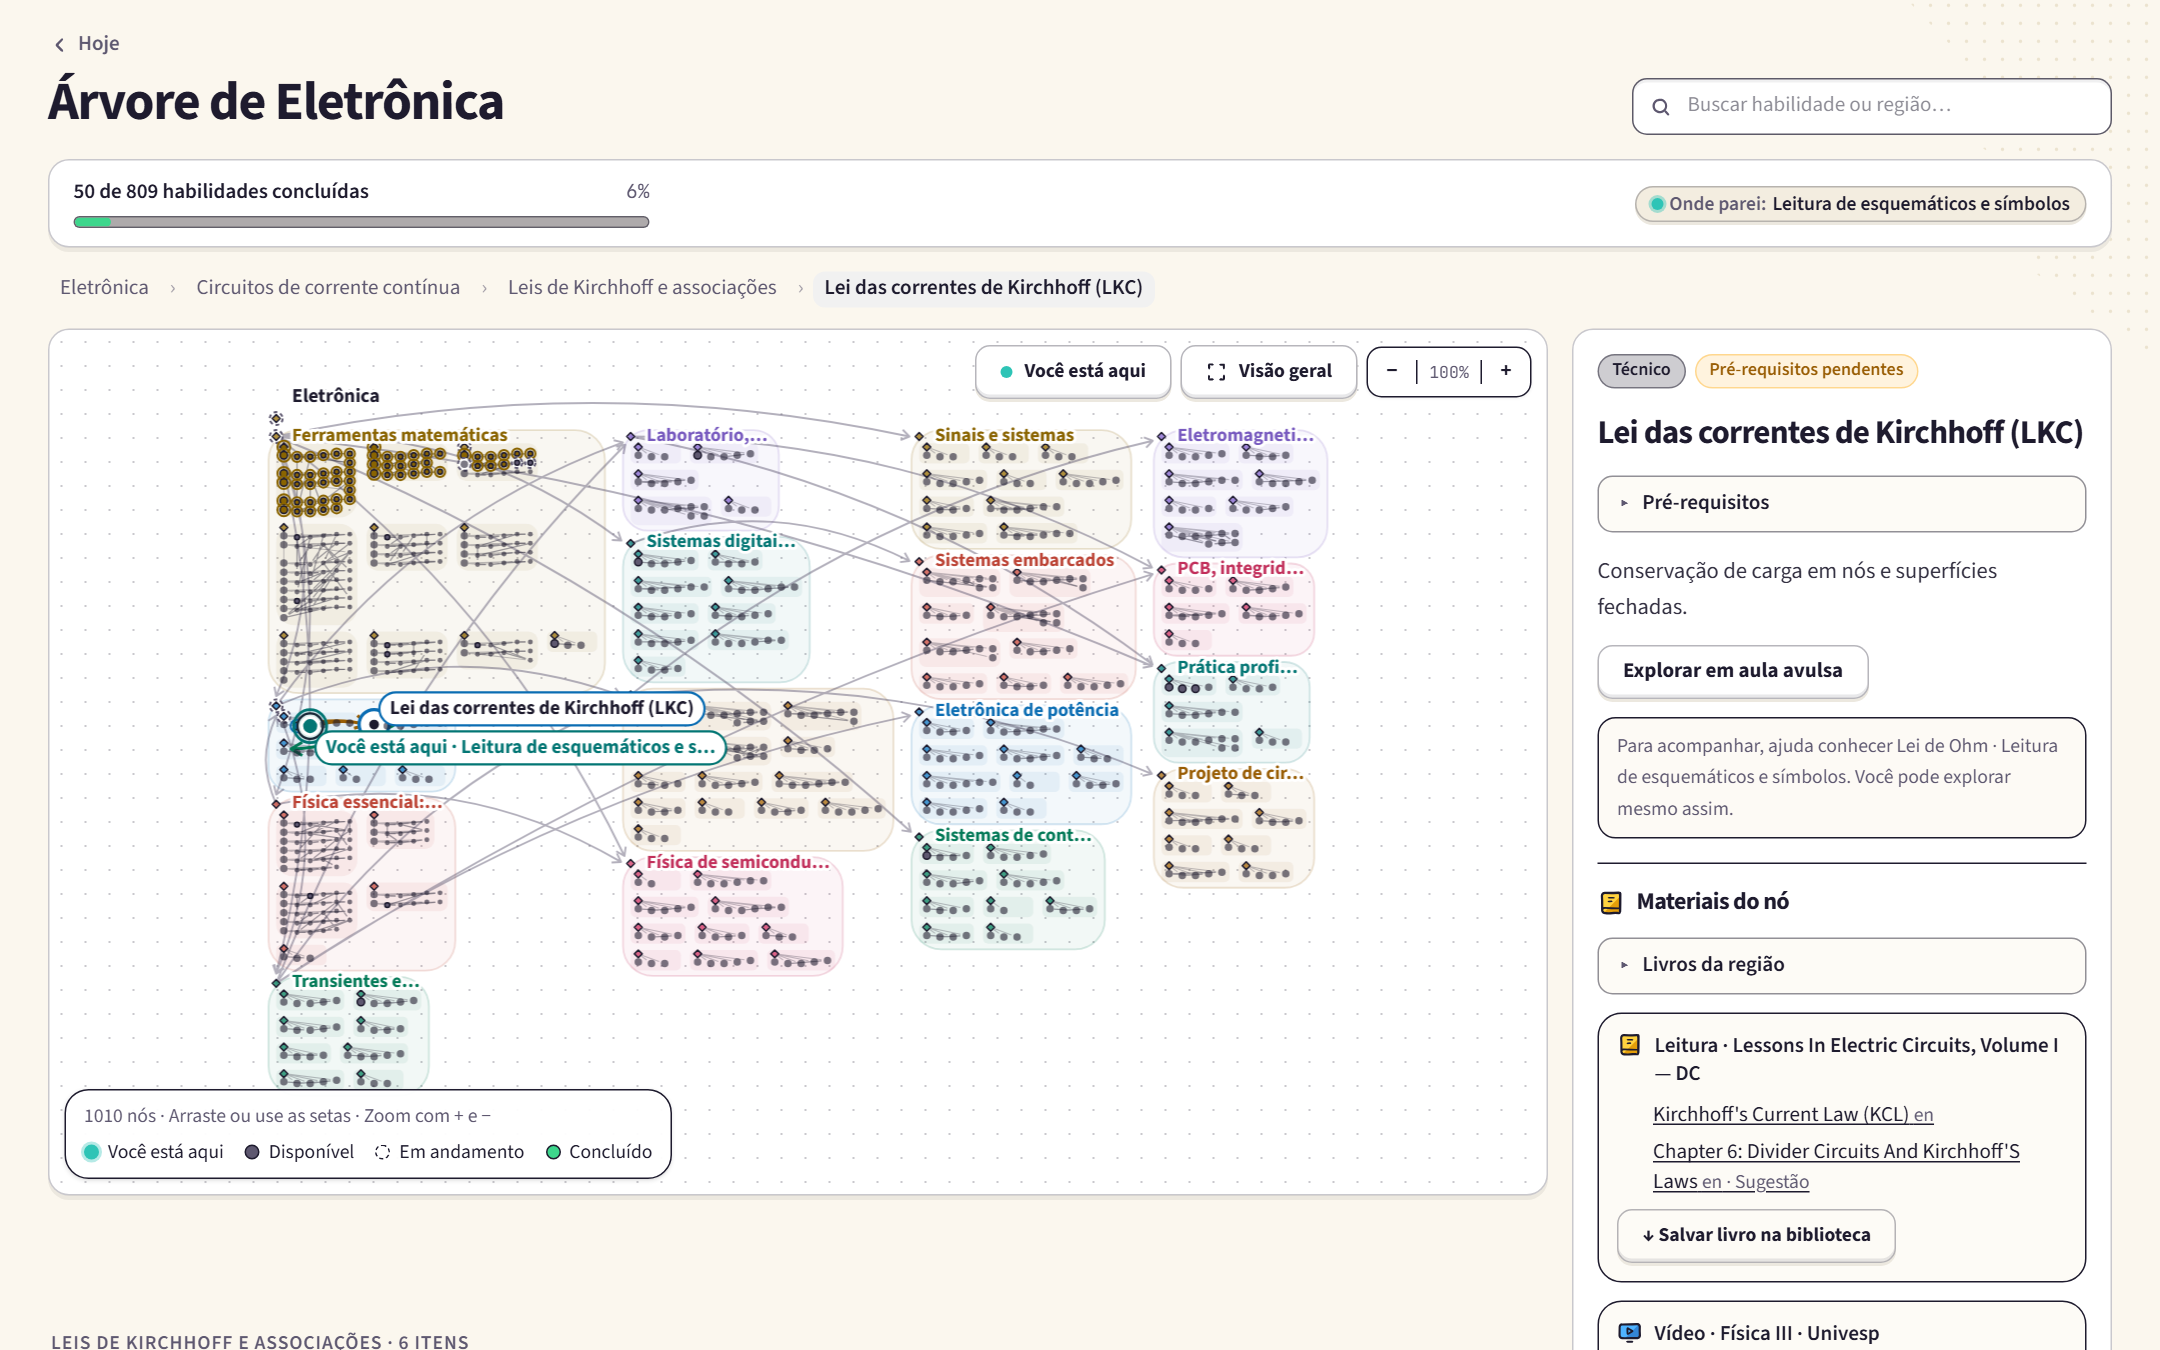
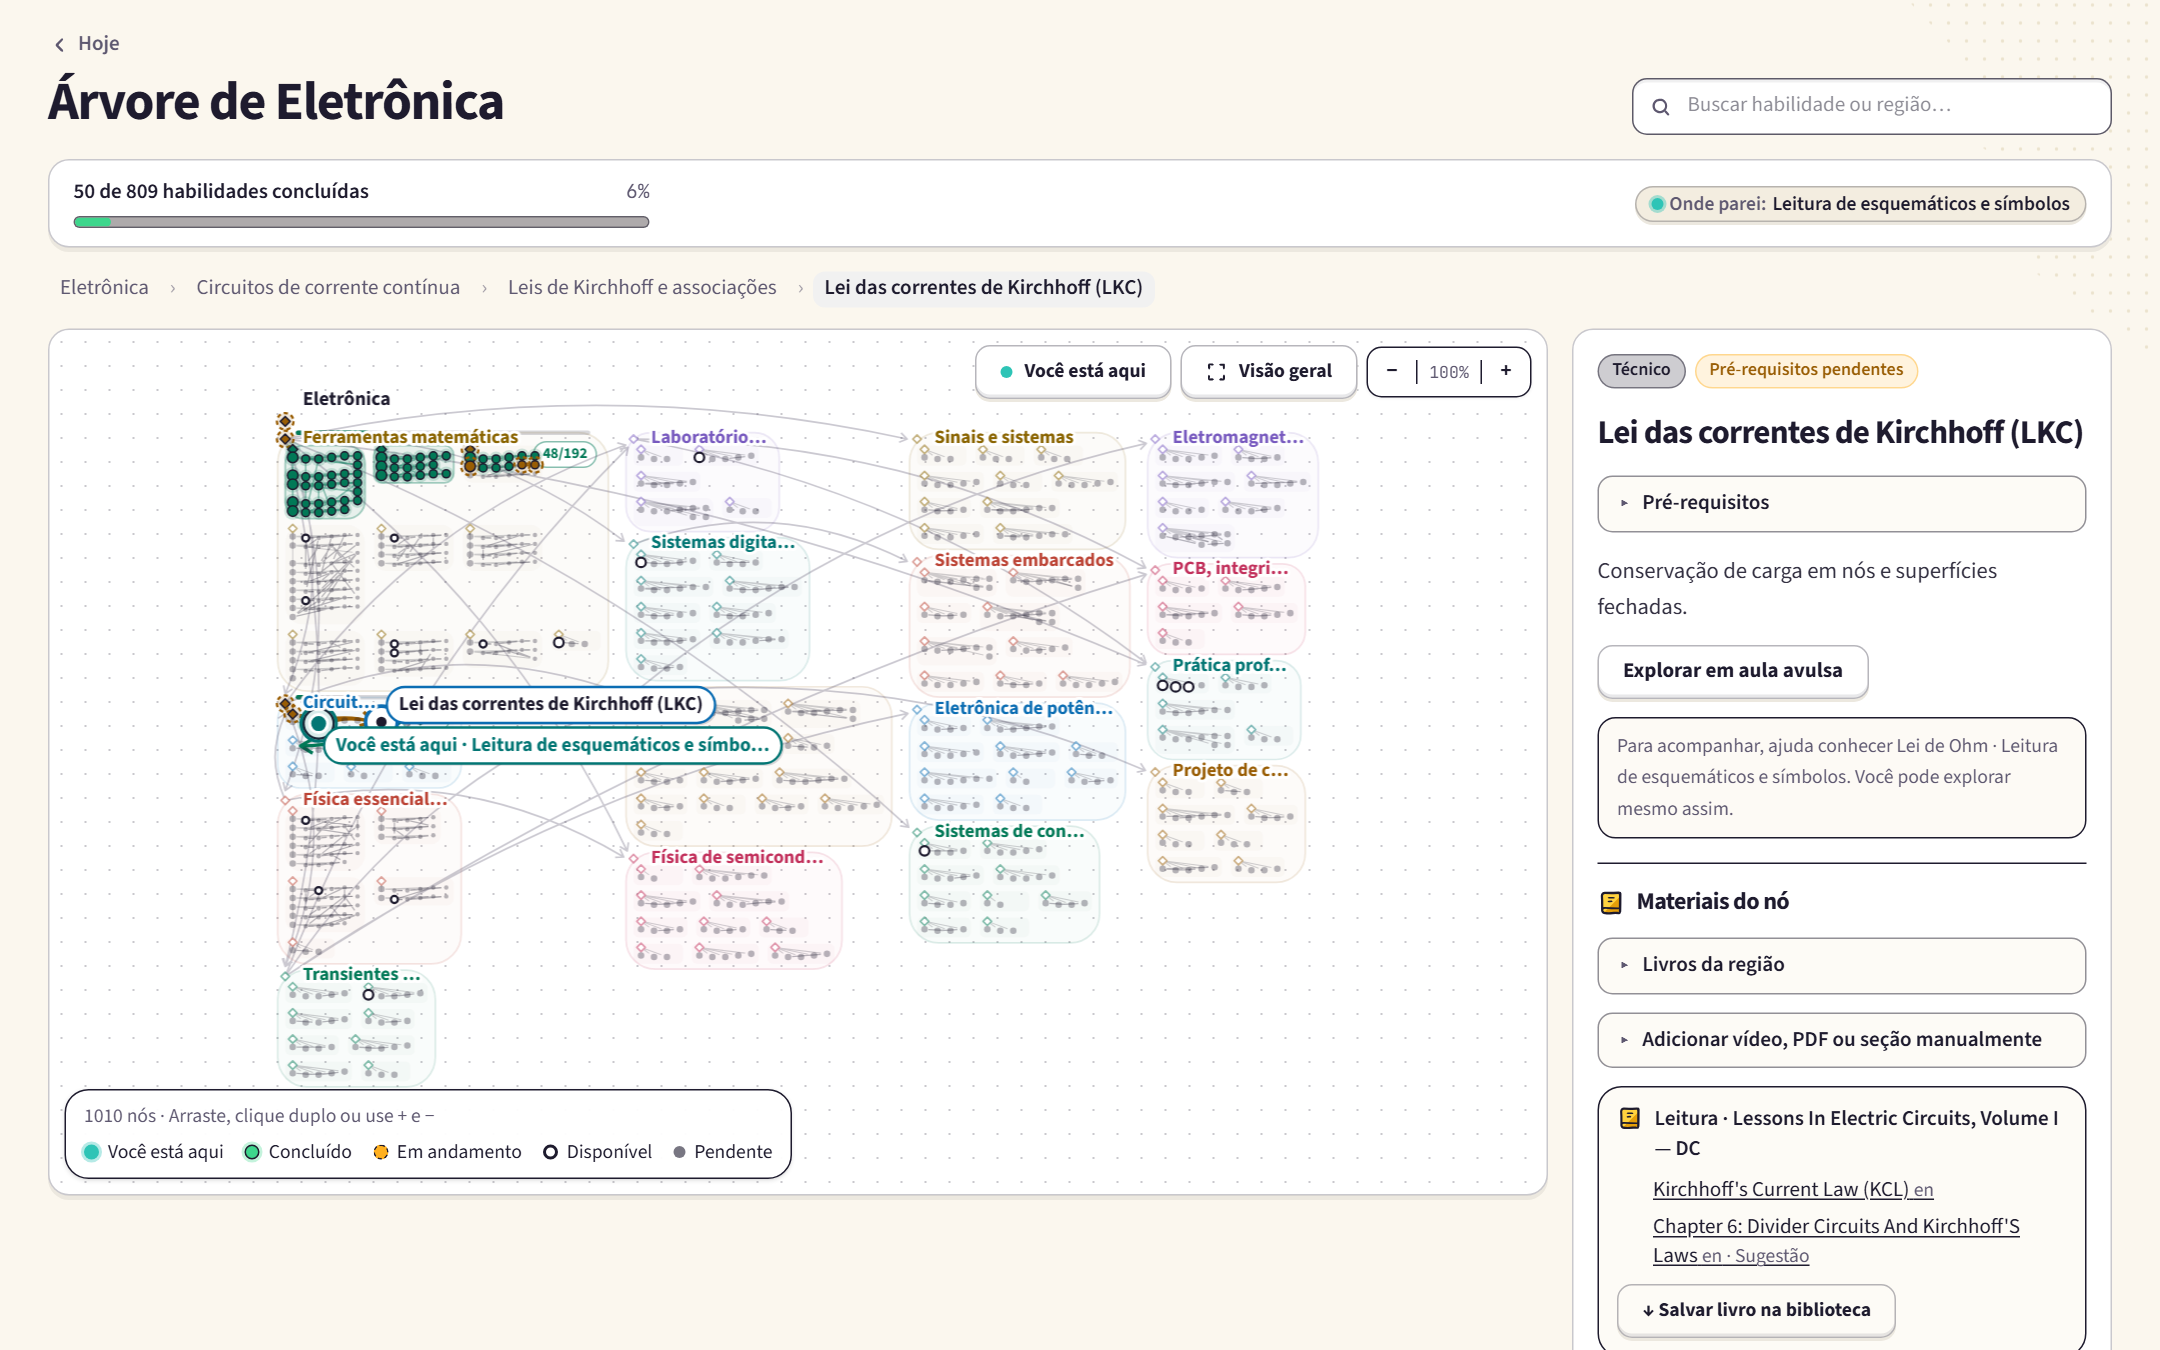
Atualiza capturas da arvore Multi-LOD (longe, perto e minimapa) no README

Changed region(s): [[0.0931, 0.28, 0.6204, 0.8711], [0.7444, 0.7467, 0.9616, 0.9956], [0.0, 0.9956, 0.2171, 1.0]]

diff --git a/README.md b/README.md
@@ -51,6 +51,12 @@ Most AI chat tools forget what you mastered last week, skip prerequisites, or ha
 
 ## Interface & Screenshots
 
+### Multi-LOD Skill Tree — Overview to Close-Up & Interactive Minimap
+
+Zoom out to track mastery across all regions at a glance (completed skills in emerald, active progress in amber, available frontier highlighted, pending skills recessed). Zoom in to inspect unit progress counters, 2-line skill cards, semantic prerequisite/unlock curves, cel-shaded status glyphs, and an interactive minimap.
+
+![TrilhaAtlas zoomed-in skill tree showing unit counters, 2-line skill labels, unlock curves, and interactive minimap](docs/assets/trilhaatlas-map-zoom.png)
+
 ### Guided Daily Campaign & Adaptive Study Plan
 
 Each domain opens with one clear next step — balancing due reviews, campaign chapters, placement shortcuts, and free-form exploration in a clean cel-shaded interface.
